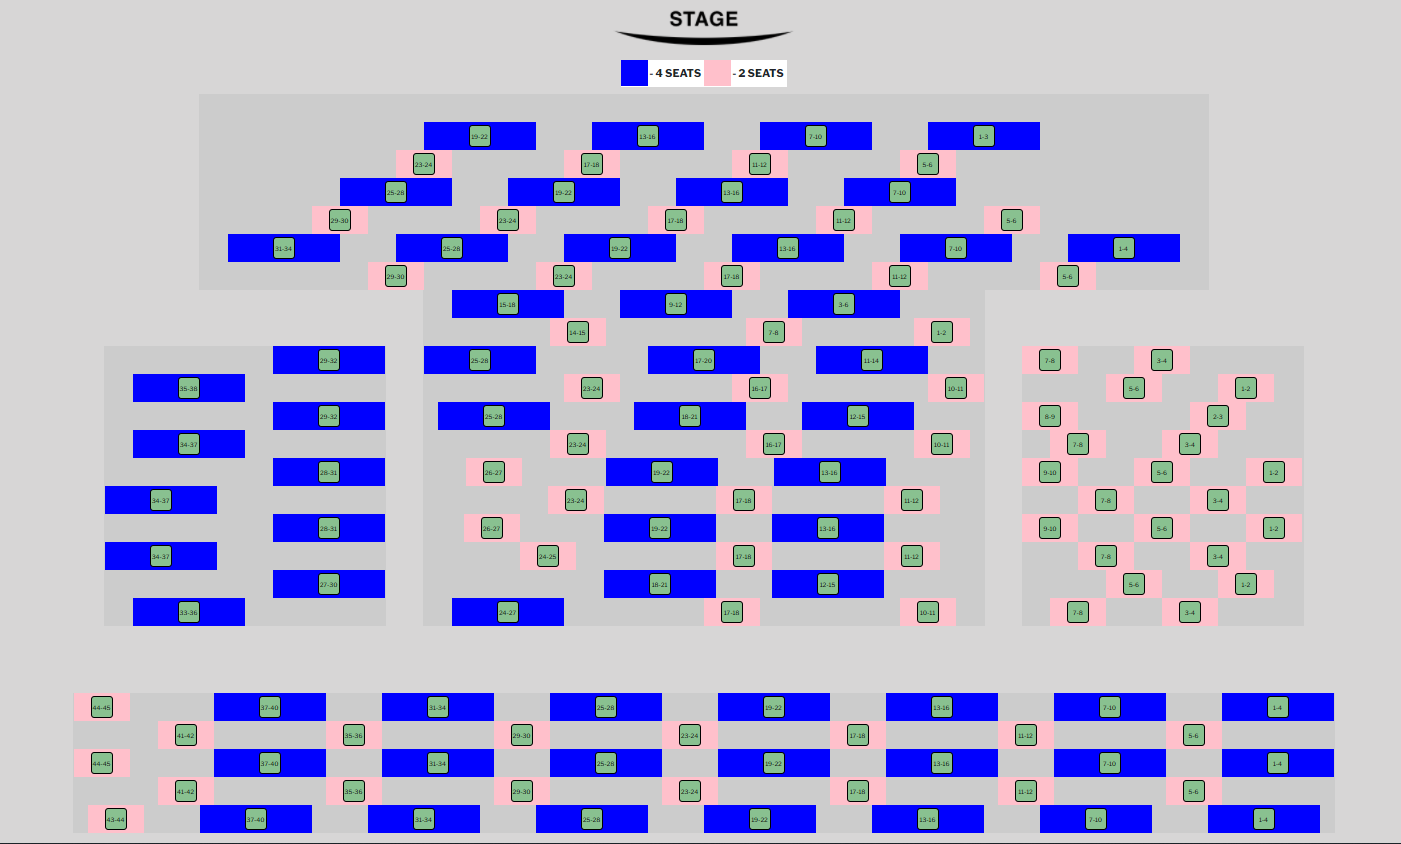
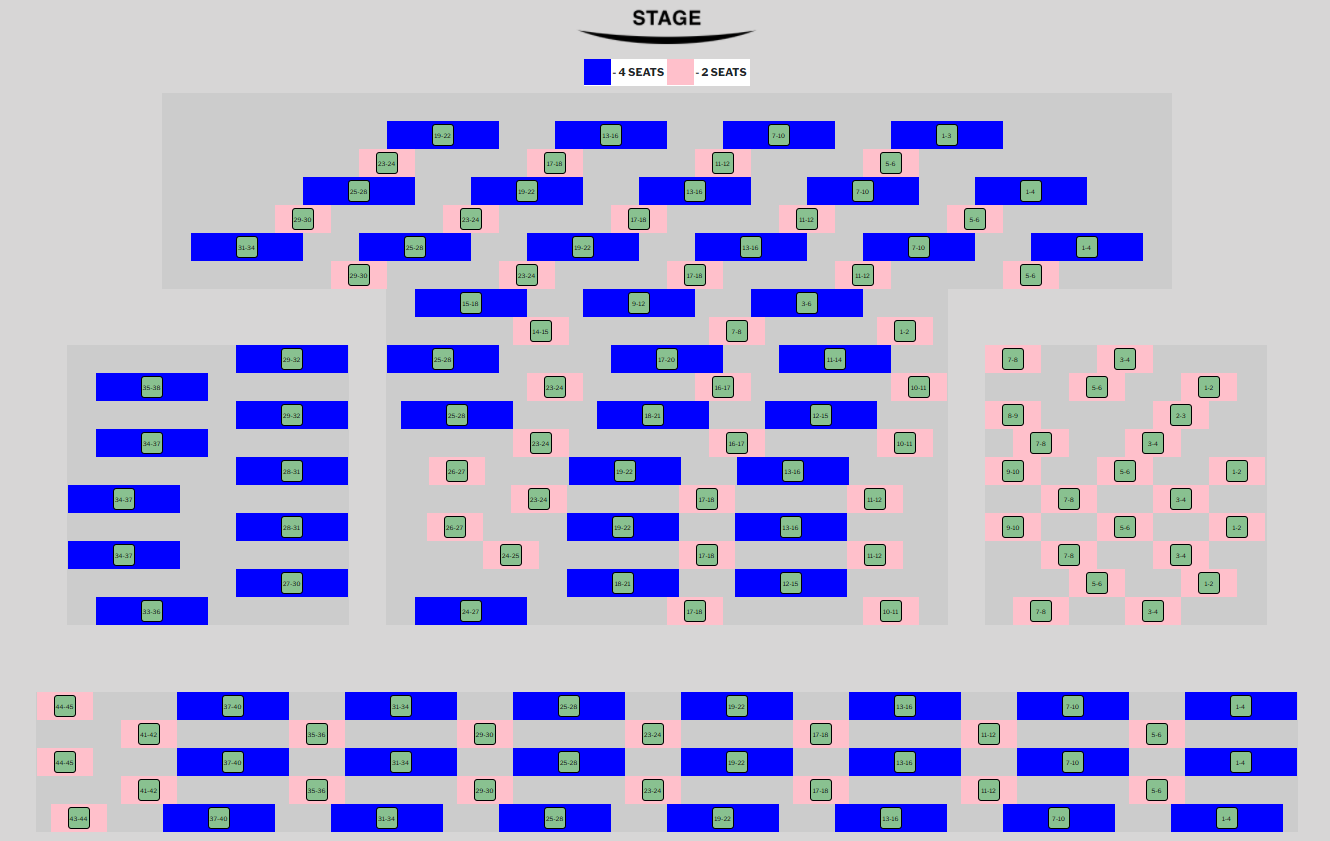
added section 25670

diff --git a/Completed/25670.html b/Completed/25670.html
@@ -237,7 +237,17 @@
                           </td>
                           <td>
                             <div align='center'>
-                              <img src="https://s3.amazonaws.com/prdv2-dt-client/seating_images/pixel.png" width="378" height="42">
+                              <img src="https://s3.amazonaws.com/prdv2-dt-client/seating_images/pixel.png" width="84" height="42">
+                            </div>
+                          </td>
+                          <td>
+                            <div class='blue' align='center'>
+                              {{{ sectionsMarkupNoRowNames.37834 }}}
+                            </div>    
+                          </td>
+                          <td>
+                            <div align='center'>
+                              <img src="https://s3.amazonaws.com/prdv2-dt-client/seating_images/pixel.png" width="126" height="42">
                             </div>
                           </td>
                         </tr>
